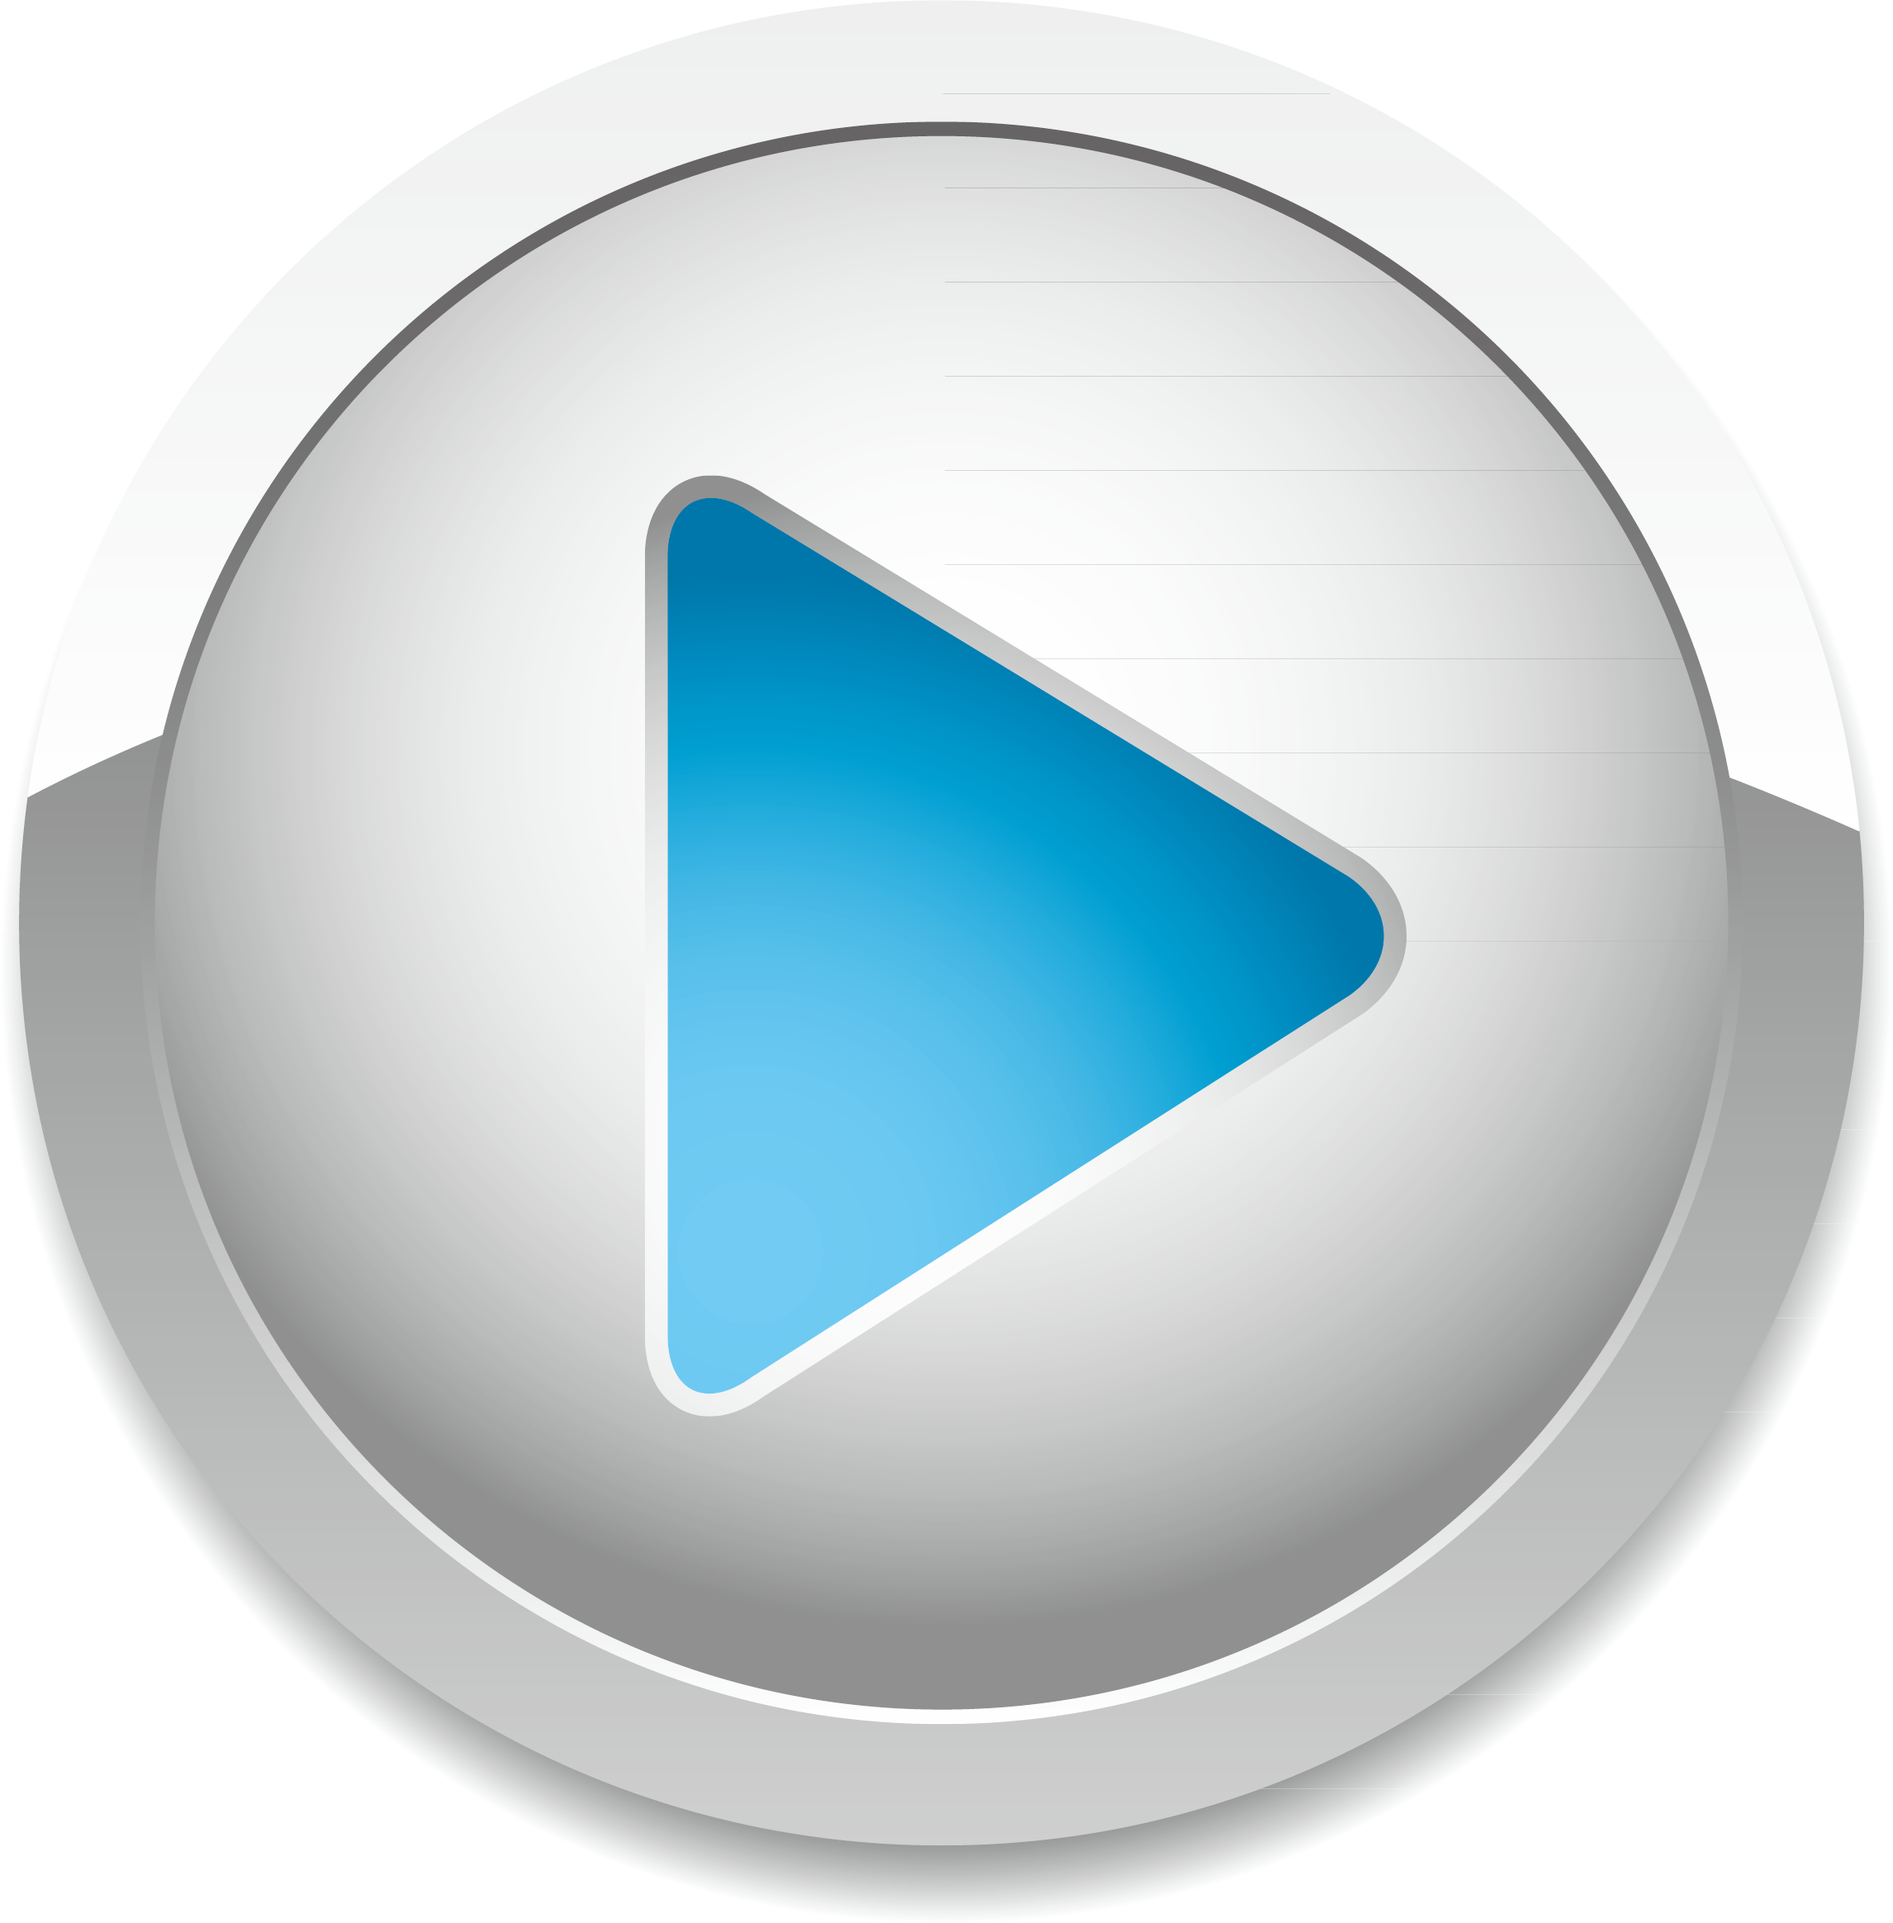
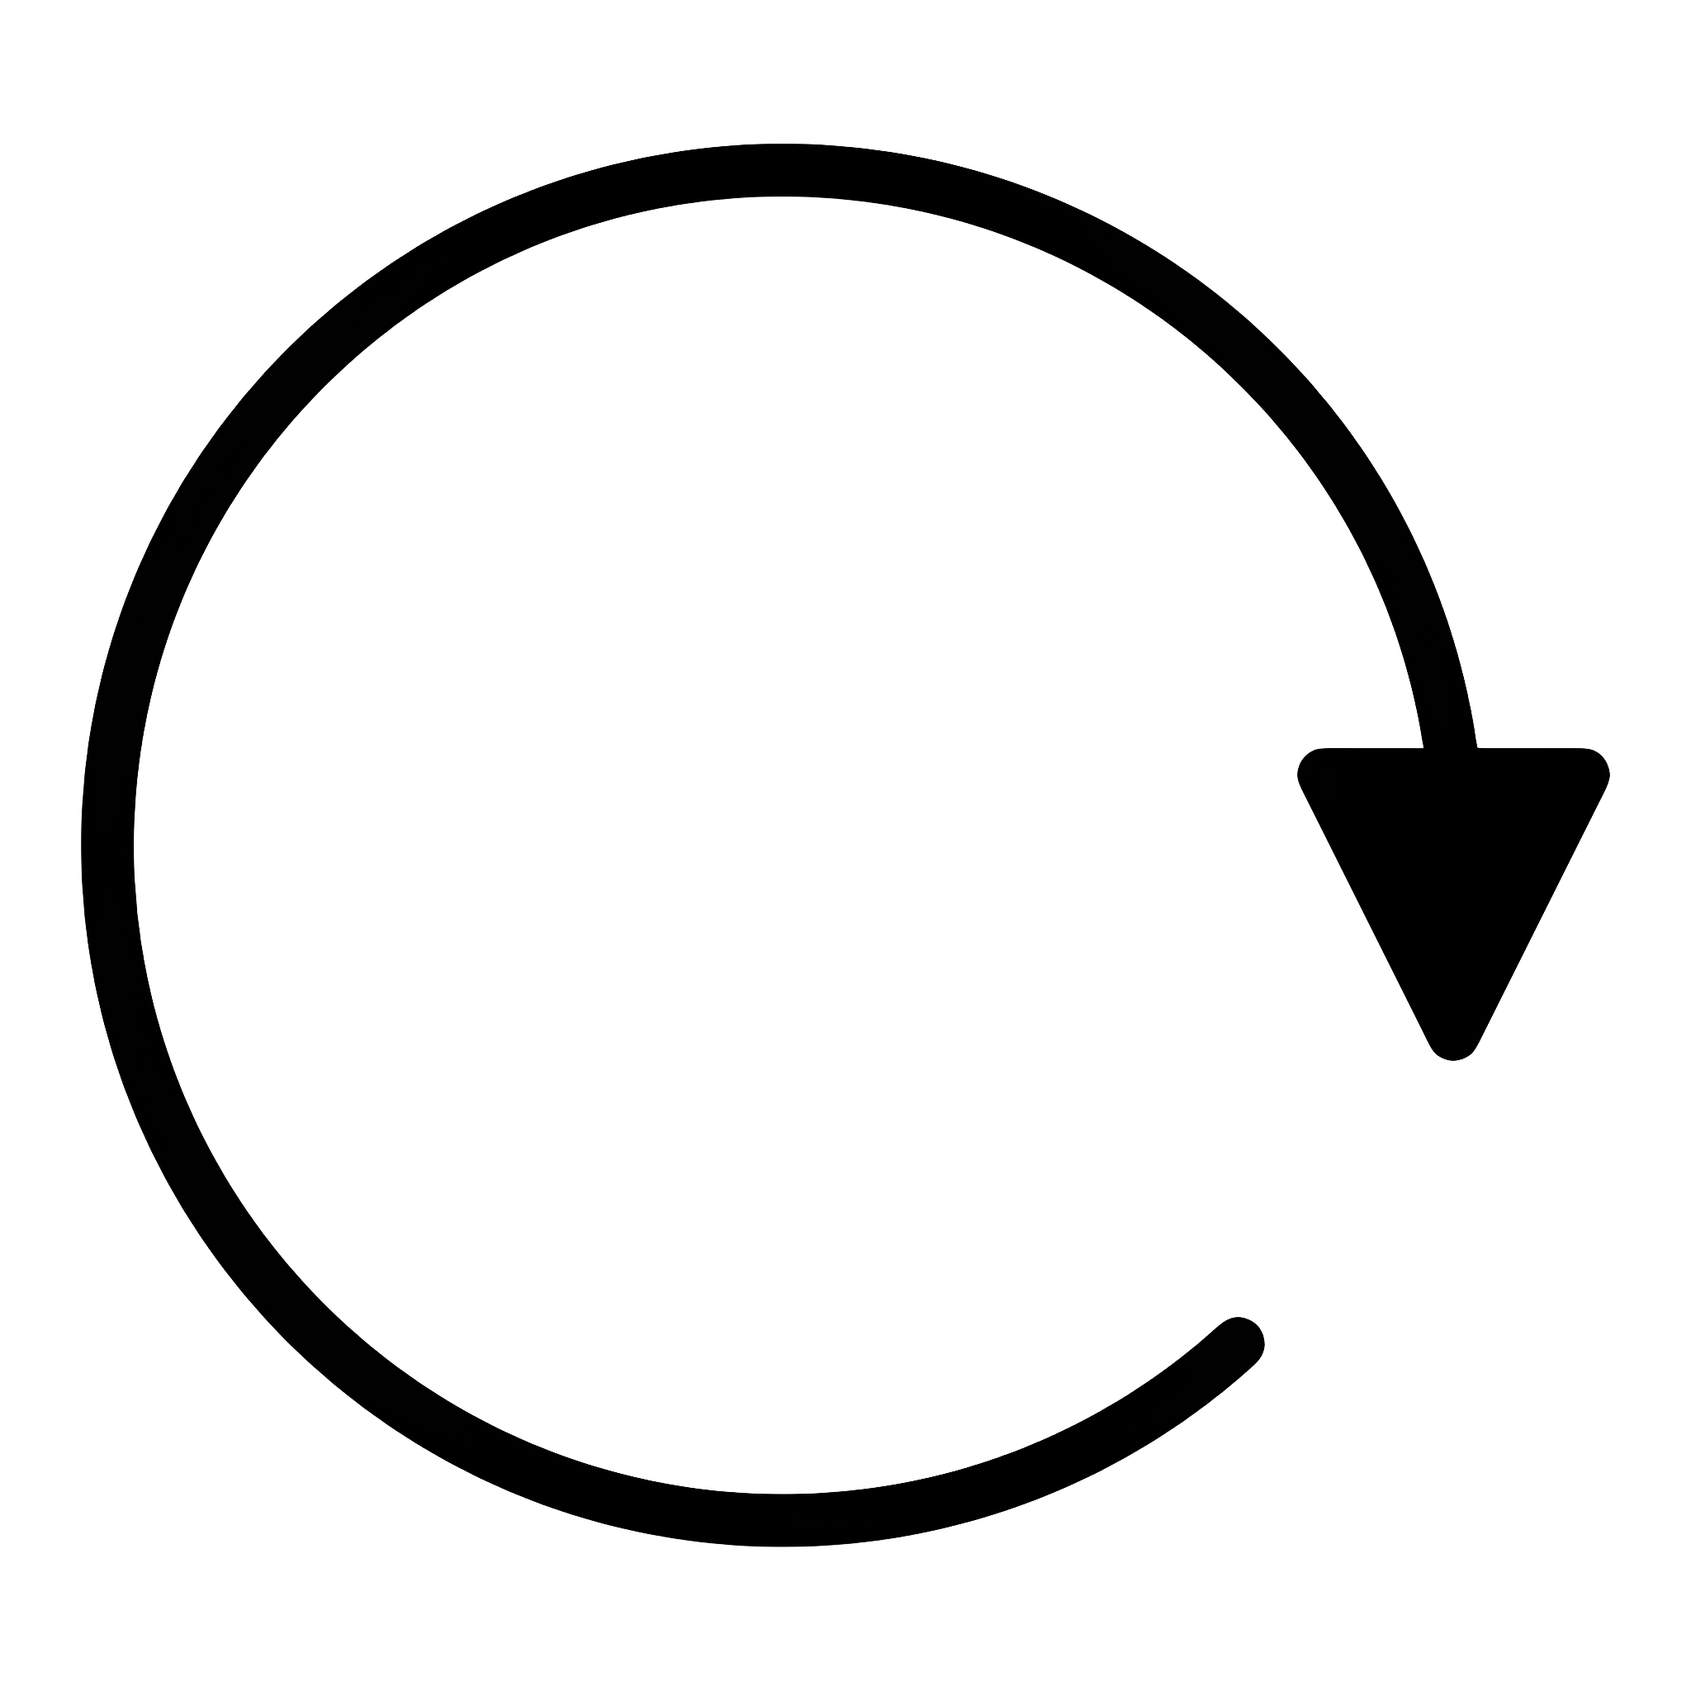
reset image

diff --git a/HTML/FORMSinputTypes.html b/HTML/FORMSinputTypes.html
@@ -11,10 +11,14 @@
         <input type="text" id="username" name="username"><br><br>
         <label for="password">Password:</label>
         <input type="password" id="password" name="password"><br><br>
+        <label for="email">Email:</label>
+        <input type="email" id="email" name="email"><br><br>
         <label for="Birthday">Birthday:</label>
         <input type="date" id="Birthday" name="Birthday"><br><br>
-        <input type="submit" value="Submit">
-        <input type="reset" value="reset">
+        <label for="birthday">Birthday:</label>
+        <input type="datetime-local" id="birthday" name="birthday"><br><br>
+        <input type="image" src="submit.png" alt="Submit" width="40" height="40">
+        <input type="image" src="reset.png" alt="Reset" width="40" height="40">
     </form>
 </body>
 </html>
